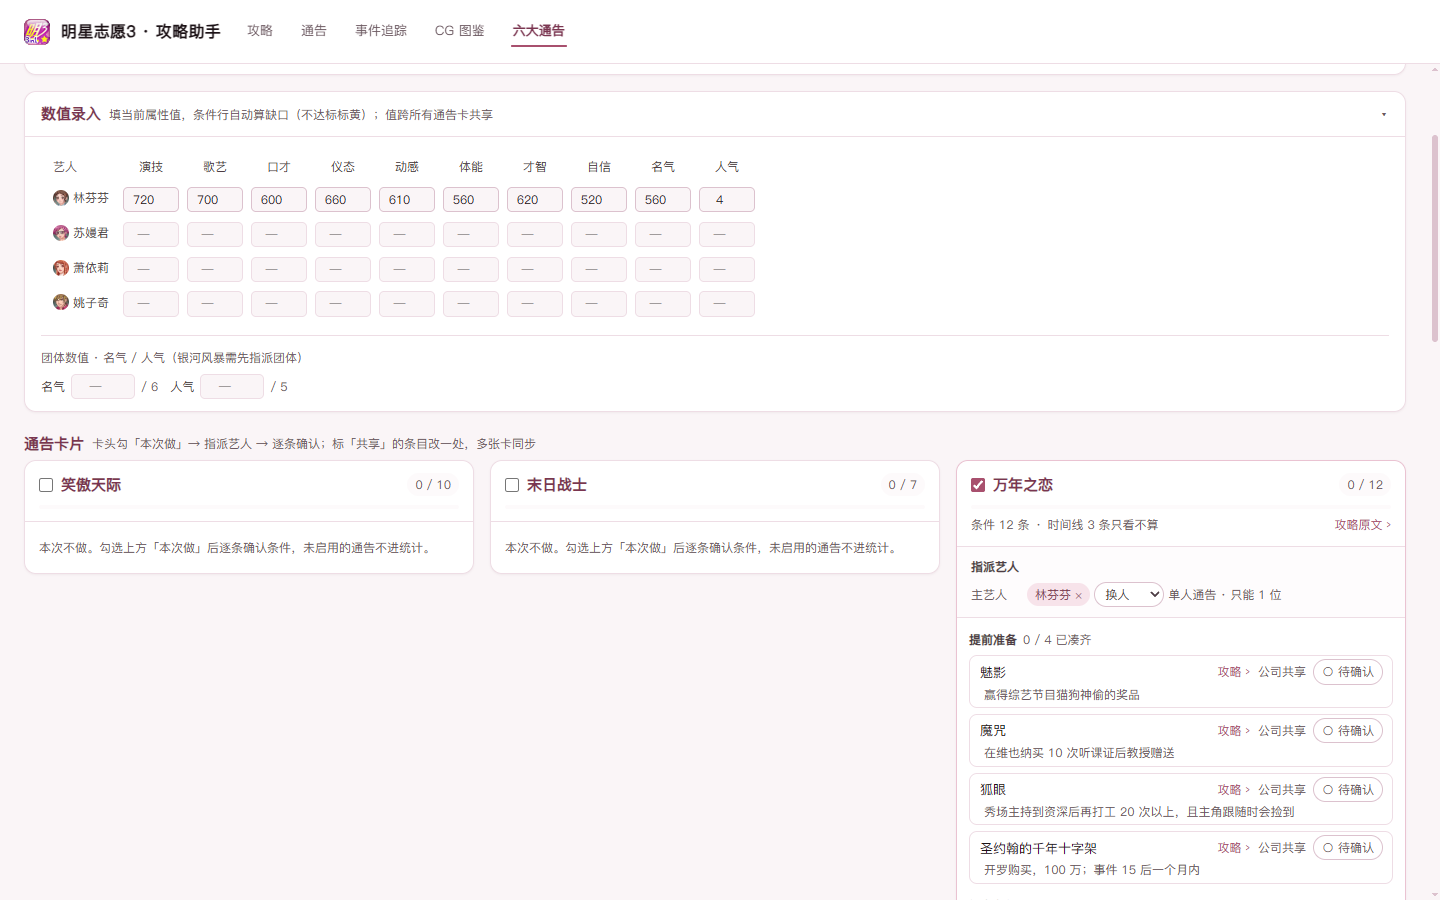
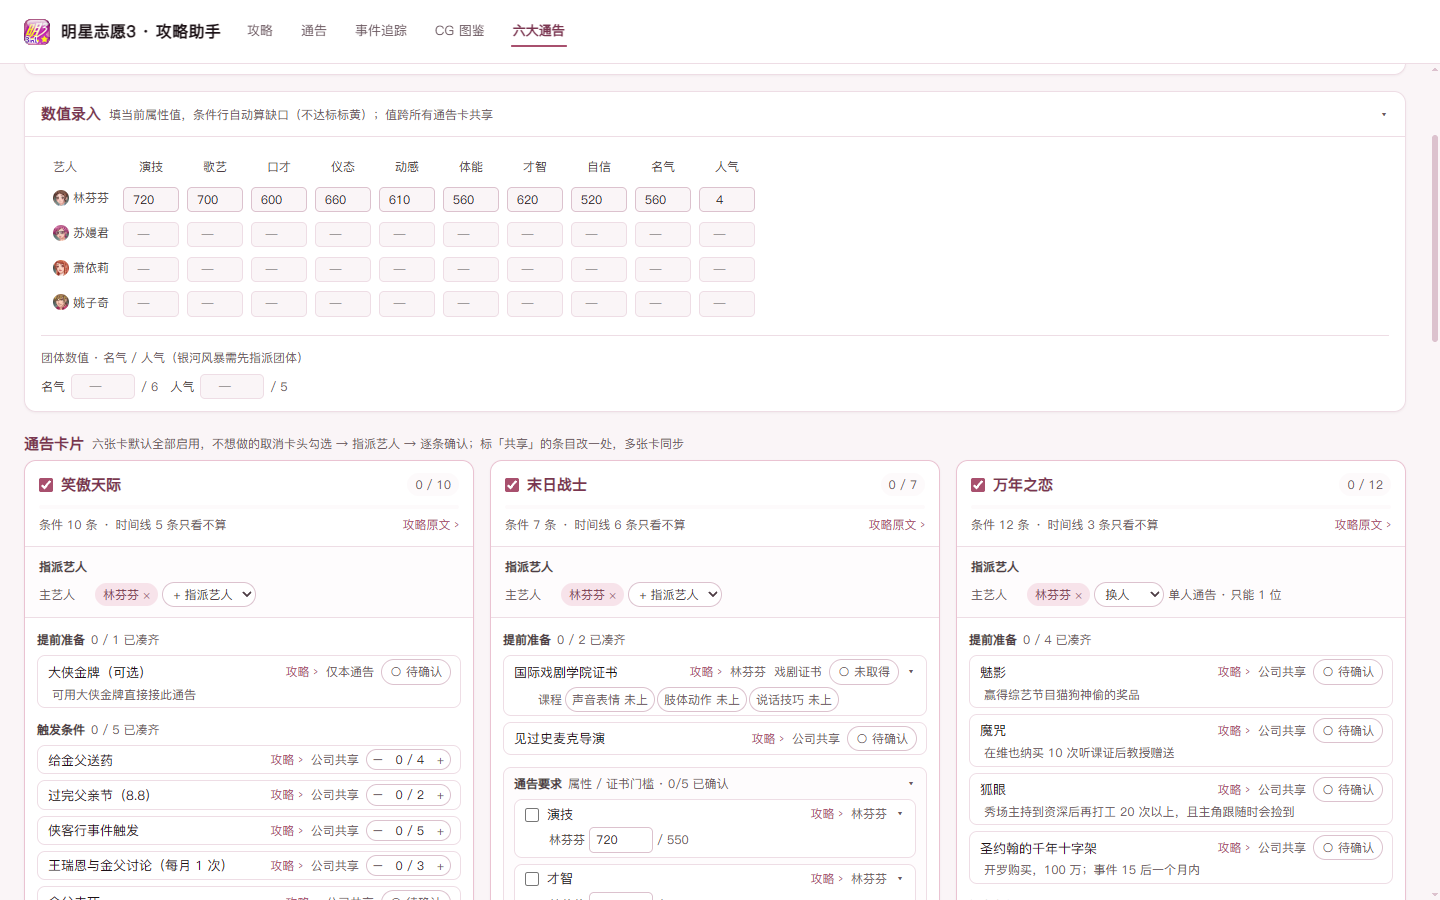
feat: enable all six notices by default on a fresh board

diff --git a/src/lib/specialsState.ts b/src/lib/specialsState.ts
@@ -35,10 +35,14 @@ export interface SpecialsState {
   groupLocked: Record<string, boolean>;
 }
 
-export function emptyState(): SpecialsState {
+/** A fresh board starts with every notice enabled — players untick the ones
+ *  they are not pursuing. Existing saves always keep their own selection.
+ *  `defaultEnabled` comes from the runtime data so a new notice joins the
+ *  default automatically. */
+export function emptyState(defaultEnabled: string[] = []): SpecialsState {
   return {
     version: 1,
-    enabled: [],
+    enabled: [...defaultEnabled],
     assignments: {},
     done: [],
     stats: {},
@@ -63,8 +67,8 @@ function numberMap(value: unknown): Record<string, number> {
 
 /** Tolerate hand-edited / older saves: unknown keys and grades are dropped,
  *  but a partial save keeps everything it does know. */
-export function sanitiseState(raw: unknown): SpecialsState {
-  if (!raw || typeof raw !== 'object') return emptyState();
+export function sanitiseState(raw: unknown, defaultEnabled: string[] = []): SpecialsState {
+  if (!raw || typeof raw !== 'object') return emptyState(defaultEnabled);
   const parsed = raw as Partial<SpecialsState>;
   const stats: Record<string, Record<string, number>> = {};
   if (parsed.stats && typeof parsed.stats === 'object') {
@@ -114,13 +118,13 @@ export function sanitiseState(raw: unknown): SpecialsState {
   };
 }
 
-export function readState(): SpecialsState {
+export function readState(defaultEnabled: string[] = []): SpecialsState {
   try {
     const raw = localStorage.getItem(SPECIALS_STORAGE_KEY);
-    if (!raw) return emptyState();
-    return sanitiseState(JSON.parse(raw));
+    if (!raw) return emptyState(defaultEnabled);
+    return sanitiseState(JSON.parse(raw), defaultEnabled);
   } catch {
-    return emptyState();
+    return emptyState(defaultEnabled);
   }
 }
 

diff --git a/src/hooks/useSpecials.ts b/src/hooks/useSpecials.ts
@@ -12,8 +12,12 @@ import type { SpecialNotice } from '../types/specials';
 /** Board-local save state. Deliberately not a context: only #/specials mounts
  *  it, and the four 旗下 artists come from the tracker save via props. */
 export function useSpecials(notices: SpecialNotice[] = []) {
+  const defaultEnabled = useMemo(
+    () => notices.filter((notice) => notice.id !== '_global').map((notice) => notice.id),
+    [notices],
+  );
   const [state, setState] = useState<SpecialsState>(() =>
-    trimSoloAssignments(readState(), notices));
+    trimSoloAssignments(readState(defaultEnabled), notices));
 
   useEffect(() => {
     try {
@@ -139,7 +143,7 @@ export function useSpecials(notices: SpecialNotice[] = []) {
     }));
   }, []);
 
-  const reset = useCallback(() => setState(emptyState()), []);
+  const reset = useCallback(() => setState(emptyState(defaultEnabled)), [defaultEnabled]);
 
   return useMemo(
     () => ({

diff --git a/src/components/specials/SpecialsApp.tsx b/src/components/specials/SpecialsApp.tsx
@@ -173,7 +173,7 @@ export default function SpecialsApp({ data, guide }: Props) {
           <div className="mt-5 mb-1 flex items-center gap-2">
             <h2 className="text-ui-sm font-bold text-brand-strong">通告卡片</h2>
             <span className="text-ui-2xs text-ink-faint">
-              卡头勾「本次做」→ 指派艺人 → 逐条确认；标「共享」的条目改一处，多张卡同步
+              六张卡默认全部启用，不想做的取消卡头勾选 → 指派艺人 → 逐条确认；标「共享」的条目改一处，多张卡同步
             </span>
           </div>
           <div data-notice-grid className="grid grid-cols-3 items-start gap-4 tab:grid-cols-2 phone:grid-cols-1">

diff --git a/src/components/specials/NoticeCard.tsx b/src/components/specials/NoticeCard.tsx
@@ -113,7 +113,7 @@ export default function NoticeCard({
 
       {!enabled ? (
         <p className="px-3.5 py-4 text-ui-2xs text-ink-faint">
-          本次不做。勾选上方「本次做」后逐条确认条件，未启用的通告不进统计。
+          本次不做（未启用，不进统计）。想接这张通告时勾回上方「本次做」。
         </p>
       ) : (
         <>

diff --git a/docs/content-pipeline.md b/docs/content-pipeline.md
@@ -40,10 +40,11 @@
 - 前端状态在 `src/lib/specialsState.ts`（纯判定）与 `src/hooks/useSpecials.ts`（`guide.specials.v1` 存档）。旗下 4 人**读 `guide.progress.v1`**，这里不复制名单。共享不是维护一张映射表，而是由状态键决定：同名的公司计数 / 资金共用一个键，证书按「艺人 + 证书」共用，同一个艺人挂两张卡时两处读同一份属性数字，一处改动多卡同步。属性 10 格（人气 0–5 单列）、课程等级 5 档与证书门槛都从 `tipsData.ts` 的 `TRAINING_ROWS` / `CERT_ROWS` 派生，不另造一份游戏数值。**数值录入集中在 `StatsPanel.tsx`**（`data-stats-panel`）：一张表填 10 项属性 × 旗下艺人，外加团体名气 / 人气（`state.values` 的 `gval:` 键），条件行只读它算缺口，不在每行重复输入；`stat` / `resource` 行仍保留逐行 ▸ 可选 peek，但只是冗余视图。
 - 课程清单**按需**：只列该艺人挂的、且已启用的通告所需证书对应的几门课（音乐 4 / 戏剧 3 / 舞蹈 3），没挂通告的人一行都不出现；等级不从属性自动派生，属性够只代表够格升级。
 - 名额：命名角色位（昆仑）1 人、银河团体 2–4 人、落入凡间的天使 / 万年之恋（`soloMain`，由 `extract_specials.py` 的 `SOLO_MAIN` 写入）只能 1 人，其余候选池最多 4 人。选满后下拉消失并显示「已满 N 人」；单人通告例外——下拉变成「换人」，选中即替换。
+- **默认全启用**：全新存档（没有 `guide.specials.v1`）时 `emptyState(defaultEnabled)` / `readState(defaultEnabled)` 从运行时 notices 派生默认列表（排除 `_global`），六张卡一进来就全勾，不想做的自己取消。已有存档**保留用户自己的勾选**（`sanitiseState` 不改写 enabled），只有「清空本看板」会回到默认全启用。截图脚本传 `fresh` 可去掉 specials 存档复现真实默认态。
 - 一个条件行摊到多位艺人时（末日战士的证书 / 属性行、昆仑的三位角色）**每人一行**，不再把所有人的控件塞进同一行。
 - 条件行外框统一 1px 浅边框 + 圆角，完成的靠淡绿底和绿色控件区分；**不要用 2px 左侧状态条**（用户觉得那条竖杠很怪）。
 - 「提前准备」的道具 / 前置计数行把数据表里的 `hint` 直接常驻成一行淡灰纯文字备注（`data-item-source`，零状态、不可点、不加装饰符号）；证书行不铺备注，课程等级与属性缺口仍走 ▸ 展开。备注内容全部来自 `special-notices.tsv`，**不需要另造字段**。
-- 回归 `scripts/cdp_specials_board.mjs`（83 项）覆盖指派名额、单人换人、多人拆行、清单勾选、共享、按需课程、数值录入面板、昆仑三位、银河锁定、道具来源备注、备注零状态与存档持久化；`scripts/cdp_specials_shot.mjs` 用来截看板界面。
+- 回归 `scripts/cdp_specials_board.mjs`（88 项）覆盖指派名额、单人换人、多人拆行、清单勾选、共享、按需课程、数值录入面板、昆仑三位、银河锁定、道具来源备注、备注零状态与存档持久化；`scripts/cdp_specials_shot.mjs` 用来截看板界面。
 
 ## 体量统计口径
 

diff --git a/README.md b/README.md
@@ -49,7 +49,7 @@
 ### 六大通告
 
 - 把六张特殊通告（笑傲天际 / 末日战士 / 万年之恋 / 落入凡间的天使 / 昆仑历险 / 银河）的接演条件逐条摊成可勾选清单，一格一条、不再埋在长句里
-- 卡头勾「本次做」启用通告，再指派艺人：昆仑有男主 / 女主一 / 女主二三个角色位，银河需先凑齐团体再锁定或解散重组；末日战士、笑傲天际是候选池（最多 4 人，选满后不再显示加人下拉），万年之恋、落入凡间的天使只能选 1 位（下拉变「换人」即替换）
+- 六张通告卡**默认全部启用**，不想做的取消卡头勾选，再指派艺人：昆仑有男主 / 女主一 / 女主二三个角色位，银河需先凑齐团体再锁定或解散重组；末日战士、笑傲天际是候选池（最多 4 人，选满后不再显示加人下拉），万年之恋、落入凡间的天使只能选 1 位（下拉变「换人」即替换）
 - 一条条件落在多位艺人身上时按人拆行（每位一行、各自勾选与缺口），不会把四五个人的控件挤在一行里
 - 条件行按归属读数值：公司共享（同名的计数 / 资金）、按艺人、按团体、按角色位、仅本通告；同一艺人挂两张卡时证书与属性共用一份状态，改一处多卡同步，并标「共享」徽标
 - **提前准备带来源备注**：道具与前置计数行下方常驻一行淡灰小字，写清怎么拿（哪个综艺的奖品、在哪买、跟谁领、要跑几次），不用 hover；证书行不铺备注，课程等级与属性缺口仍在 ▸ 展开里
@@ -122,7 +122,7 @@ npm run test:guide  # 数据校验
 ### v1.5.0
 
 - 新增「六大通告」页签（第 5 个 tab）：把笑傲天际 / 末日战士 / 万年之恋 / 落入凡间的天使 / 昆仑历险 / 银河六张特殊通告的条件逐条摊成可勾选清单
-  - 卡头勾「本次做」启用通告，再指派艺人（昆仑三个角色位、银河团体锁定 / 解散重组）；候选池最多 4 人，万年之恋 / 落入凡间的天使只能 1 人
+  - 六张卡默认全部启用，不想做的自行取消勾选，再指派艺人（昆仑三个角色位、银河团体锁定 / 解散重组）；候选池最多 4 人，万年之恋 / 落入凡间的天使只能 1 人
   - 条件落在多位艺人身上时按人拆行，每位一行、各自勾选与缺口
   - 「提前准备」道具行下方常驻一行获取来源备注（数据表的 hint，无需额外录入）
   - 属性 / 资源是清单勾选（勾选即权威进度），数字只是可选参考、不 gate
